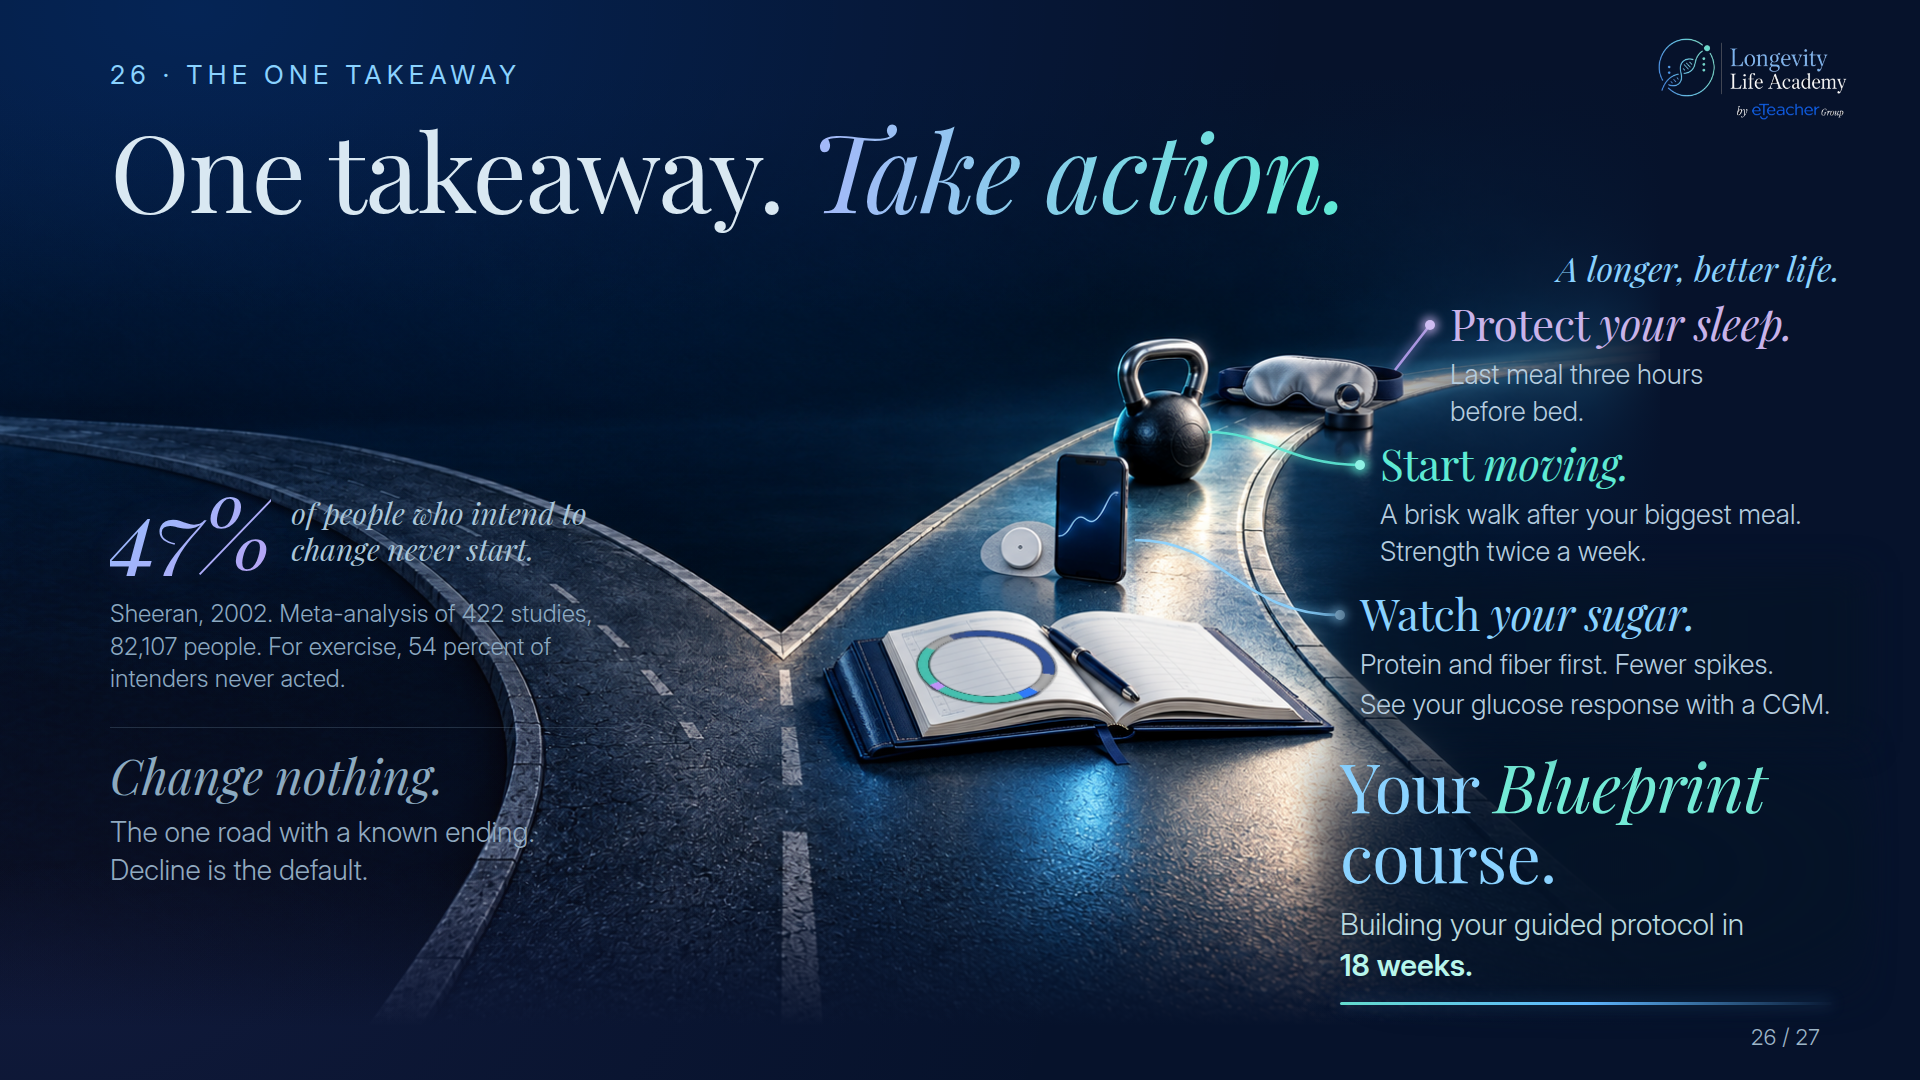
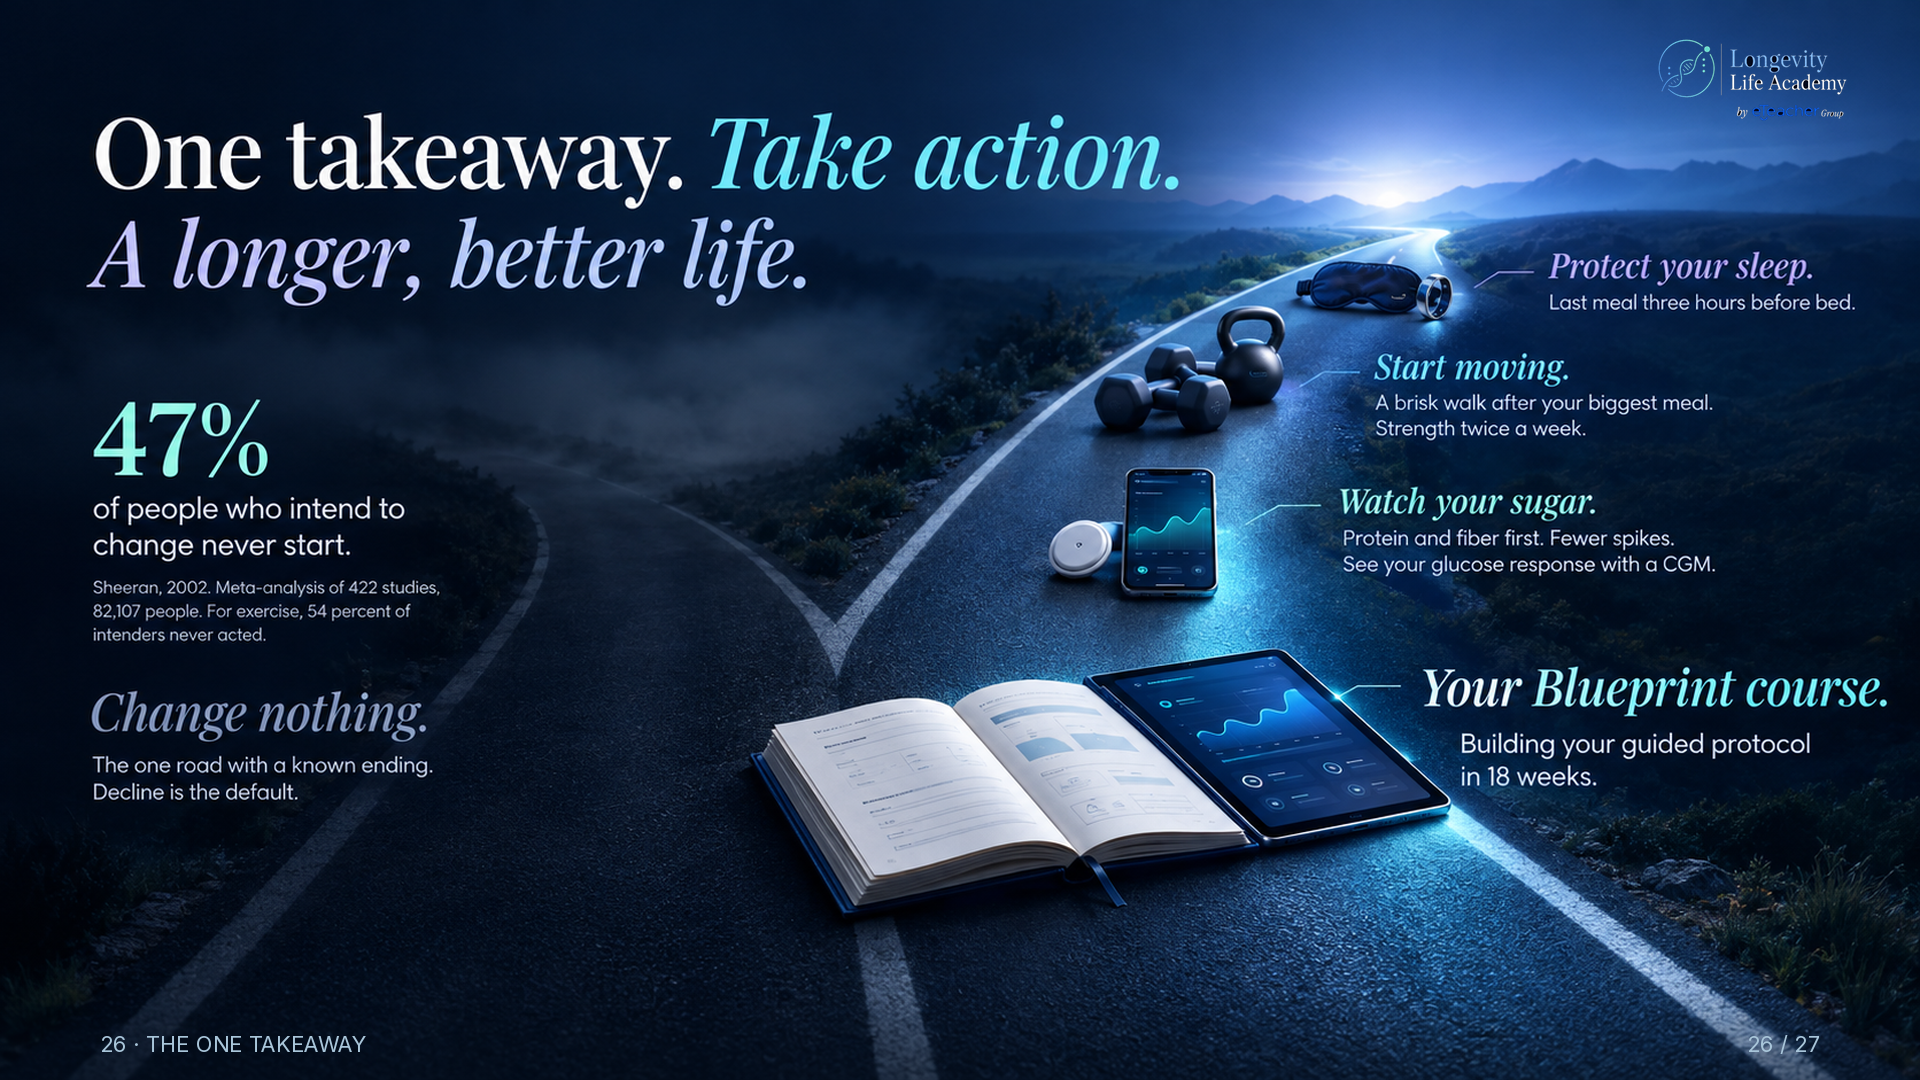
Recompose only Julie's final action slide with literal fork and longevity products

diff --git a/slide-canvas/julie/additional-take-action-source.html b/slide-canvas/julie/additional-take-action-source.html
@@ -1,67 +1,11 @@
 <!doctype html>
-<html lang="en"><head><meta charset="utf-8">
-<style>
-@font-face{font-family:Playfair;font-style:normal;font-weight:400 700;src:url(../../deck2/fonts/PlayfairDisplay.ttf)}
-@font-face{font-family:Playfair;font-style:italic;font-weight:400 700;src:url(../../deck2/fonts/PlayfairDisplay-Italic.ttf)}
-@font-face{font-family:Inter;font-weight:100 900;src:url(../../deck2/fonts/Inter.ttf)}
-*{box-sizing:border-box;margin:0;padding:0}
-body{background:#040a16}
-.slide{position:relative;width:1920px;height:1080px;overflow:hidden;background:#06122b;color:#bdd6e9;font:300 30px/1.32 Inter,sans-serif;-webkit-font-smoothing:antialiased}
-.art{position:absolute;left:-20px;top:80px;width:1680px;height:945px;background:url(closing-graphics/v44-protocol-action-road.png) center/cover no-repeat}
-.blend{position:absolute;inset:0;background:linear-gradient(90deg,rgba(6,18,43,.14),transparent 39%,transparent 67%,rgba(6,18,43,.35) 74%,#06122b 87%),linear-gradient(180deg,#06122b,rgba(6,18,43,.9) 10%,transparent 29%,transparent 80%,#06122b 95%)}
-.blue-light{position:absolute;inset:0;background:radial-gradient(ellipse at 10% 1%,rgba(0,110,255,.2),transparent 45%),radial-gradient(ellipse at 2% 90%,rgba(133,111,235,.08),transparent 39%);pointer-events:none}
-.brand-logo{position:absolute;right:70px;top:35px;width:195px;height:auto}
-.eye{position:absolute;left:110px;top:58px;color:#8ad2ff;font-size:26px;font-weight:400;letter-spacing:.2em}
-h1{position:absolute;left:110px;top:112px;font:normal 400 108px/1.04 Playfair,serif;letter-spacing:-.014em;color:#d9e8f2}
-h1 i{font-style:italic;font-weight:400;background:linear-gradient(95deg,#a6b7fa,#5eead4);background-clip:text;-webkit-background-clip:text;color:transparent}
-.destination{position:absolute;right:80px;top:250px;font:italic 34px/1.1 Playfair,serif;color:#8ad2ff}
-.left-group{position:absolute;left:110px;top:485px;width:505px}
-.stat-row{display:flex;gap:20px;align-items:center}
-.stat-number{font:italic 400 96px/.95 Playfair,serif;letter-spacing:-.02em;background:linear-gradient(135deg,#92bfff,#b8a3f4);background-clip:text;-webkit-background-clip:text;color:transparent;filter:drop-shadow(0 0 15px rgba(145,132,237,.16))}
-.stat-caption{font:italic 30px/1.2 Playfair,serif;color:#a9c6da;max-width:310px}
-.citation{font-size:24px;line-height:1.35;color:#8ca9c1;margin-top:22px;max-width:505px}
-.inaction{margin-top:32px;padding-top:22px;border-top:1px solid rgba(135,166,190,.23)}
-.inaction h2{font:italic 400 48px/1.08 Playfair,serif;color:#8caac0}
-.inaction p{font-size:28px;line-height:1.35;color:#91aac0;margin-top:12px;max-width:505px}
-.leaders{position:absolute;inset:0;width:1920px;height:1080px;pointer-events:none}
-.waypoint{position:absolute}
-.waypoint h2{font:normal 400 44px/1.05 Playfair,serif;letter-spacing:-.012em}
-.waypoint h2 i{font-style:italic}
-.waypoint p{font-size:27px;line-height:1.36;color:#b5ccdf;margin-top:11px}
-.waypoint .below{display:block;margin-top:3px}
-.sleep{left:1450px;top:300px;width:390px}
-.sleep h2{color:#c9b3ea;font-size:44px}
-.sleep p{font-size:27px}
-.move{left:1380px;top:440px;width:460px}
-.move h2{color:#5eead4}
-.sugar{left:1360px;top:590px;width:480px;isolation:isolate}
-.sugar:before{content:'';position:absolute;inset:-18px -25px -18px -25px;z-index:-1;background:linear-gradient(90deg,rgba(5,19,38,.65),rgba(5,19,38,.82));filter:blur(16px)}
-.sugar h2{color:#8ad2ff}
-.sugar p{font-size:27px}
-.course{left:1340px;top:750px;width:500px;isolation:isolate}
-.course h2{color:#8ad2ff;font-size:68px;line-height:1.03}
-.course h2 i{color:#73ead6}
-.course p{font-size:30px;color:#b9d8de;margin-top:14px}
-.course p strong{font-weight:600;color:#b8f6eb;white-space:nowrap}
-.course:before{content:'';position:absolute;inset:-25px -30px -25px -30px;z-index:-1;background:radial-gradient(ellipse at 55% 50%,rgba(5,19,38,.94),rgba(5,19,38,.73) 58%,transparent 90%);filter:blur(12px)}
-.course:after{content:'';position:absolute;left:0;right:8px;bottom:-19px;height:3px;border-radius:2px;background:linear-gradient(90deg,#64dbce,#5eb6ff,rgba(94,182,255,.04));box-shadow:0 0 16px rgba(94,182,255,.36)}
-.pg{position:absolute;right:100px;bottom:28px;font-size:22px;color:#9eb6c8}
-</style></head><body>
-<main class="slide">
- <div class="art"></div><div class="blend"></div><div class="blue-light"></div>
- <img class="brand-logo" src="../closers/img/lla-logo.png" alt="Longevity Life Academy">
- <div class="eye">26 · THE ONE TAKEAWAY</div>
- <h1>One takeaway. <i>Take action.</i></h1>
- <div class="destination">A longer, better life.</div>
- <svg class="leaders" viewBox="0 0 1920 1080" aria-hidden="true"><defs><filter id="track-glow"><feGaussianBlur stdDeviation="4"/></filter><g id="tracks" fill="none"><path d="M1395 370L1430 325" stroke="#b8a0ee"/><path d="M1208 432C1265 432 1290 465 1360 465" stroke="#5eead4"/><path d="M1135 540C1225 540 1240 615 1340 615" stroke="#8ad2ff"/></g></defs><use href="#tracks" stroke-width="10" opacity=".28" filter="url(#track-glow)"/><use href="#tracks" stroke-width="2.6" opacity=".9"/><g filter="url(#track-glow)" opacity=".65"><circle cx="1430" cy="325" r="9" fill="#c9b3ea"/><circle cx="1360" cy="465" r="9" fill="#5eead4"/><circle cx="1340" cy="615" r="9" fill="#8ad2ff"/></g><g><circle cx="1430" cy="325" r="5" fill="#cfbdf1"/><circle cx="1360" cy="465" r="5" fill="#8ff1e4"/><circle cx="1340" cy="615" r="5" fill="#a7ddff"/></g></svg>
- <section class="left-group">
-  <div class="stat-row"><div class="stat-number">47%</div><div class="stat-caption">of people who intend to change never start.</div></div>
-  <p class="citation">Sheeran, 2002. Meta-analysis of 422 studies, 82,107 people. For exercise, 54 percent of intenders never acted.</p>
-  <div class="inaction"><h2>Change nothing.</h2><p>The one road with a known ending. Decline is the default.</p></div>
- </section>
- <section class="waypoint course" data-step="1"><h2>Your <i>Blueprint</i> course.</h2><p>Building your guided protocol in <strong>18 weeks.</strong></p></section>
- <section class="waypoint sugar" data-step="2"><h2>Watch <i>your sugar.</i></h2><p>Protein and fiber first. Fewer spikes.<span class="below">See your glucose response with a CGM.</span></p></section>
- <section class="waypoint move" data-step="3"><h2>Start <i>moving.</i></h2><p>A brisk walk after your biggest meal. Strength twice a week.</p></section>
- <section class="waypoint sleep" data-step="4"><h2>Protect <i>your sleep.</i></h2><p>Last meal three hours<br>before bed.</p></section>
- <div class="pg">26 / 27</div>
-</main></body></html>
+<html lang="en">
+<head><meta charset="utf-8"><meta name="viewport" content="width=device-width,initial-scale=1">
+<title>One takeaway. Take action.</title>
+<style>*{box-sizing:border-box}html,body{margin:0;background:#06122b}img{display:block;width:100%;height:auto}</style>
+</head>
+<body>
+<!-- This revision is a flattened image composition, not editable native slide text. -->
+<img src="additional-take-action-20261026.png?v=selected-road-20261027"
+alt="One takeaway. Take action. A longer, better life. 47% of people who intend to change never start. Sheeran, 2002. Meta-analysis of 422 studies, 82,107 people. For exercise, 54 percent of intenders never acted. Change nothing. The one road with a known ending. Decline is the default. Your Blueprint course. Building your guided protocol in 18 weeks. Watch your sugar. Protein and fiber first. Fewer spikes. See your glucose response with a CGM. Start moving. A brisk walk after your biggest meal. Strength twice a week. Protect your sleep. Last meal three hours before bed.">
+</body></html>

diff --git a/slide-canvas/julie/index.html b/slide-canvas/julie/index.html
@@ -59,14 +59,14 @@ textarea:focus{outline:none;border-color:#006EFF;box-shadow:0 0 0 3px rgba(0,110
 <aside class="note"><label for="c18">Your comment on slide 18</label><textarea id="c18" data-n="18" data-t="You don&#x27;t need a lab. You need a notebook." placeholder="Type here. It saves as you type."></textarea><div class="saved" id="v18"></div></aside></section><section class="slot" id="s19"><div class="left"><div class="num">19</div><h2>Test. Then buy.</h2><img class="main" src="../images-logo/github-round-10-25.jpg" alt=""><p class="why">The three tests to ask your doctor about: Vitamin D, Homocysteine, Red blood cell nutrient levels. Your disclosed list is spoken here.</p><div class="opts"><figure><img src="../images/claude-b-16.jpg" loading="lazy" alt=""><span>Option 2</span></figure><figure><img src="../images/github-deck2-dark-16.jpg" loading="lazy" alt=""><span>Option 3</span></figure></div></div>
 <aside class="note"><label for="c19">Your comment on slide 19</label><textarea id="c19" data-n="19" data-t="Test. Then buy." placeholder="Type here. It saves as you type."></textarea><div class="saved" id="v19"></div></aside></section><section class="slot" id="s20"><div class="left"><div class="num">20</div><h2>That&#x27;s the cake.</h2><img class="main" src="../images-logo/github-round-9-27.jpg" alt=""><p class="why">The whole cake, the only one cut.</p><div class="opts"><figure><img src="../images/github-r7-last-27.jpg" loading="lazy" alt=""><span>Option 2</span></figure></div></div>
 <aside class="note"><label for="c20">Your comment on slide 20</label><textarea id="c20" data-n="20" data-t="That&#x27;s the cake." placeholder="Type here. It saves as you type."></textarea><div class="saved" id="v20"></div></aside></section><section class="slot" id="s21"><div class="left"><div class="num">21</div><h2>Why. Intention. Resources.</h2><img class="main" src="../images-logo/github-deck1-dark-17.jpg" alt=""><p class="why">The three questions, and your close.</p><div class="opts"><figure><img src="../images/github-deck1-light-17.jpg" loading="lazy" alt=""><span>Option 2</span></figure><figure><img src="../images/claude-b-17.jpg" loading="lazy" alt=""><span>Option 3</span></figure></div></div>
-<aside class="note"><label for="c21">Your comment on slide 21</label><textarea id="c21" data-n="21" data-t="Why. Intention. Resources." placeholder="Type here. It saves as you type."></textarea><div class="saved" id="v21"></div></aside></section><section class="slot" id="s22"><div class="left"><div class="num">22</div><h2>One takeaway. Take action.</h2><img class="main" src="additional-take-action-20261026.png?v=v44-design" alt="One takeaway. Take action."><p class="why">Closing slide: Blueprint, sugar and CGM, movement, then sleep.</p></div><aside class="note"><label for="c22">Your comment on slide 22</label><textarea id="c22" data-n="22" data-t="One takeaway. Take action." placeholder="Type here. It saves as you type."></textarea><div class="saved" id="v22"></div></aside></section><div class="coming"><h3>Still to be built</h3><p class="why" style="margin-top:0;margin-bottom:10px">Two beats from the script are not on a slide yet and will be added in the next round:</p><ul><li>The sauna, your one piece of icing, as its own frame</li><li>It&#x27;s your life. Live it well., the end card for your close</li></ul></div>
+<aside class="note"><label for="c21">Your comment on slide 21</label><textarea id="c21" data-n="21" data-t="Why. Intention. Resources." placeholder="Type here. It saves as you type."></textarea><div class="saved" id="v21"></div></aside></section><section class="slot" id="s22"><div class="left"><div class="num">22</div><h2>One takeaway. Take action.</h2><img class="main" src="additional-take-action-20261026.png?v=selected-road-20261027" alt="One takeaway. Take action."><p class="why">Closing slide: Blueprint, sugar and CGM, movement, then sleep.</p></div><aside class="note"><label for="c22">Your comment on slide 22</label><textarea id="c22" data-n="22" data-t="One takeaway. Take action." placeholder="Type here. It saves as you type."></textarea><div class="saved" id="v22"></div></aside></section><div class="coming"><h3>Still to be built</h3><p class="why" style="margin-top:0;margin-bottom:10px">Two beats from the script are not on a slide yet and will be added in the next round:</p><ul><li>The sauna, your one piece of icing, as its own frame</li><li>It&#x27;s your life. Live it well., the end card for your close</li></ul></div>
 </div>
 <button id="send" class="btn p" onclick="sendAll()">Send my comments</button>
 <div id="lb" onclick="this.classList.remove('on')"><img id="lbimg" src="" alt=""><div class="x">Close</div></div>
 <div id="play"><img id="pimg" src="" alt=""><div class="x" onclick="stopPlay()">Close, Esc</div><div class="c" id="pc"></div></div>
 <script>
 document.querySelectorAll('.opts img').forEach(im=>{im.loading='eager';im.removeAttribute('disabled');});
-const P=["../images-logo/github-deck2-dark-01.jpg","../images-logo/added-why-light.jpg","../images-logo/github-r7-last-06.jpg","../images-logo/github-deck2-dark-04.jpg","../images-logo/github-r4-v1-05.jpg","../images-logo/github-round-9-11.jpg","../images-logo/github-round-10-12.jpg","../images-logo/claude-b-07.jpg","../images-logo/claude-b-08.jpg","../images-logo/github-round-10-15.jpg","../images-logo/github-r6-v2-10.jpg","../images-logo/github-round-10-17.jpg","../images-logo/github-deck2-dark-11.jpg","../images-logo/github-r7-last-19.jpg","../images-logo/github-deck2-dark-13.jpg","../images-logo/claude-b-14.jpg","../images-logo/github-deck2-light-15.jpg","../images-logo/github-round-10-24.jpg","../images-logo/github-round-10-25.jpg","../images-logo/github-round-9-27.jpg","../images-logo/github-deck1-dark-17.jpg","additional-take-action-20261026.png?v=v44-design"];let k=0;
+const P=["../images-logo/github-deck2-dark-01.jpg","../images-logo/added-why-light.jpg","../images-logo/github-r7-last-06.jpg","../images-logo/github-deck2-dark-04.jpg","../images-logo/github-r4-v1-05.jpg","../images-logo/github-round-9-11.jpg","../images-logo/github-round-10-12.jpg","../images-logo/claude-b-07.jpg","../images-logo/claude-b-08.jpg","../images-logo/github-round-10-15.jpg","../images-logo/github-r6-v2-10.jpg","../images-logo/github-round-10-17.jpg","../images-logo/github-deck2-dark-11.jpg","../images-logo/github-r7-last-19.jpg","../images-logo/github-deck2-dark-13.jpg","../images-logo/claude-b-14.jpg","../images-logo/github-deck2-light-15.jpg","../images-logo/github-round-10-24.jpg","../images-logo/github-round-10-25.jpg","../images-logo/github-round-9-27.jpg","../images-logo/github-deck1-dark-17.jpg","additional-take-action-20261026.png?v=selected-road-20261027"];let k=0;
 const T=[...document.querySelectorAll('textarea')];
 T.forEach(t=>{const key='julie-deck-c'+t.dataset.n;t.value=localStorage.getItem(key)||'';if(t.value)document.getElementById('v'+t.dataset.n).textContent='Saved';t.addEventListener('input',()=>{localStorage.setItem(key,t.value);document.getElementById('v'+t.dataset.n).textContent='Saved';});});
 function sendAll(){const lines=T.filter(t=>t.value.trim()).map(t=>'Slide '+t.dataset.n+', '+t.dataset.t+':\n'+t.value.trim());if(!lines.length){alert('No comments yet. Type into a box next to a slide first.');return;}const body=lines.join('\n\n')+'\n\n'+location.href;navigator.clipboard&&navigator.clipboard.writeText(body).catch(()=>{});location.href='mailto:gitter.omri@gita-agency.com?subject='+encodeURIComponent('Masterclass deck, my comments')+'&body='+encodeURIComponent(body);}
